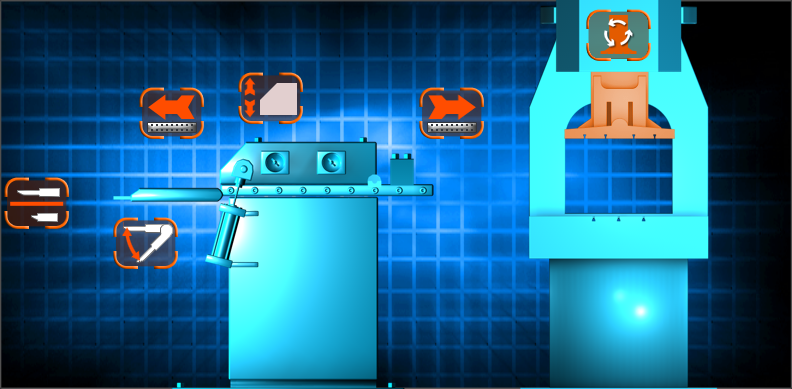
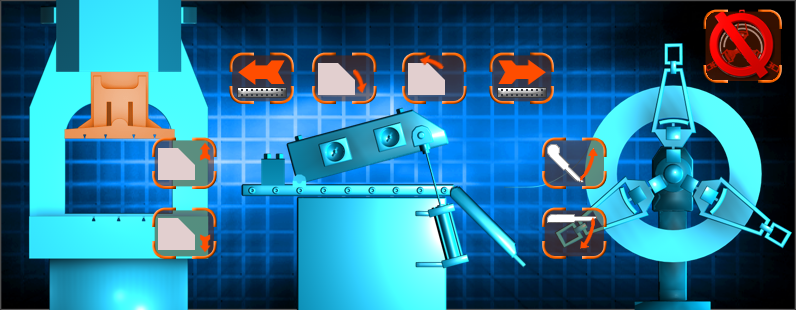
* Corrigidos comandos SQL que nao consideravam LINHA/MAQUINA ao consultar programas da prensa * Finalizada tela grafica com o desenho e comandos da maquina * Corrigido erro ao carregar / salvar avanco na tela de parametros do programa da prensa

diff --git a/AplanDesbobMezanino.c b/AplanDesbobMezanino.c
@@ -184,10 +184,14 @@ void ProgPrensa_Enviar(tProgData ProgData)
 
 void CarregaComboProgramas(void)
 {
+  char sql[300];
   GtkWidget *obj = GTK_WIDGET(gtk_builder_get_object(builder, "cmbPrensaProg"));
 
 // Carregamento dos programas cadastrados no MySQL no ComboBox.
-  DB_Execute(&mainDB, 0, "select Nome from ProgPrensa order by ID");
+  sprintf(sql, "select Nome from ProgPrensa where LINHA='%s' and MAQUINA='%s' order by ID",
+      MAQ_LINHA, MAQ_MAQUINA);
+
+  DB_Execute(&mainDB, 0, sql);
   CarregaCombo(&mainDB, GTK_COMBO_BOX(obj),0, NULL);
 }
 
@@ -199,45 +203,6 @@ int ProgPrensa_Init(void)
 }
 
 // Logica da tela principal: Callback de botoes e demais funcoes
-
-void cbProgPrensa_MesaSubir(GtkButton *button, gpointer user_data)
-{
-  atividade++;
-  SetMaqStatus(MAQ_STATUS_MANUAL);
-  MaqConfigFlags(MaqLerFlags() | FLAG_CMD_MESA_SUBIR);
-}
-
-void cbProgPrensa_MesaDescer(GtkButton *button, gpointer user_data)
-{
-  atividade++;
-  SetMaqStatus(MAQ_STATUS_MANUAL);
-  MaqConfigFlags(MaqLerFlags() | FLAG_CMD_MESA_DESCER);
-}
-
-void cbProgPrensa_MesaParar(GtkButton *button, gpointer user_data)
-{
-  MaqConfigFlags(MaqLerFlags() & (~(FLAG_CMD_MESA_DESCER | FLAG_CMD_MESA_SUBIR)));
-}
-
-void cbProgPrensa_AplanSubir(GtkButton *button, gpointer user_data)
-{
-  atividade++;
-  SetMaqStatus(MAQ_STATUS_MANUAL);
-  MaqConfigFlags(MaqLerFlags() | FLAG_CMD_APLAN_SUBIR);
-}
-
-void cbProgPrensa_AplanDescer(GtkButton *button, gpointer user_data)
-{
-  atividade++;
-  SetMaqStatus(MAQ_STATUS_MANUAL);
-  MaqConfigFlags(MaqLerFlags() | FLAG_CMD_APLAN_DESCER);
-}
-
-void cbProgPrensa_AplanParar(GtkButton *button, gpointer user_data)
-{
-  MaqConfigFlags(MaqLerFlags() & (~(FLAG_CMD_APLAN_DESCER | FLAG_CMD_APLAN_SUBIR)));
-}
-
 void cbProgPrensa_Parar(GtkButton *button, gpointer user_data)
 {
   atividade++;
@@ -463,7 +428,7 @@ void cbProgParamProduzir(GtkButton *button, gpointer user_data)
     tObjList   *item      = ProgParam->lista_avanco;
 
     while(item != NULL) {
-      val = atoi(gtk_entry_get_text(GTK_ENTRY(item->obj))) * 100;
+      val = atoi(gtk_entry_get_text(GTK_ENTRY(item->obj))) * 10;
       if(val > 0) {
         sprintf(sql,"update ProgPrensaPassos set ProgPrensaAvanco=%d where ID=%d", val, item->id);
         DB_Execute(&mainDB, 0, sql);
@@ -672,8 +637,7 @@ void AbrirProgParam(void)
     return; // Sem item ativo.
   }
 
-  sprintf(sql, "select ID, NumCiclos, PedirNumCiclos from ProgPrensa where LINHA='%s' and MAQUINA='%s' and nome='%s'",
-      MAQ_LINHA, MAQ_MAQUINA, LerComboAtivo(combo));
+  sprintf(sql, "select ID, NumCiclos, PedirNumCiclos from ProgPrensa where nome='%s'", LerComboAtivo(combo));
   DB_Execute(&mainDB, 0, sql);
   DB_GetNextRow(&mainDB, 0);
 
@@ -763,7 +727,7 @@ void AbrirProgParam(void)
 
         gtk_table_attach_defaults(GTK_TABLE(tbl), obj, 0, 1, i, i+1);
 
-        sprintf(tmp, "%d", atoi(DB_GetData(&mainDB, idx, 2)) / (idx == 0 ? 100 : 1));
+        sprintf(tmp, "%d", atoi(DB_GetData(&mainDB, idx, 2)) / (idx == 0 ? 10 : 1));
 
         obj = gtk_entry_new_with_max_length(10); // Tamanho de um int
         gtk_entry_set_text(GTK_ENTRY(obj), tmp);
@@ -903,8 +867,8 @@ struct strCoordIHM {
         { 422,  70,  70,  55, cbManAplanRecuar  , "images/cmd-aplan-perfil-avanca.png"},
         { 252,  70,  70,  55, cbManAplanAvancar , "images/cmd-aplan-perfil-recua.png" },
         { 337,  70,  70,  55, cbManAplanAbrir   , "images/cmd-aplan-tampa-abrir.png"  },
-        { 150, 135,  70,  55, cbManAplanSubir   , "images/cmd-aplan-tampa-abrir.png"  },
-        { 150, 205,  70,  55, cbManAplanDescer  , "images/cmd-aplan-tampa-fechar.png" },
+        { 150, 135,  70,  55, cbManAplanSubir   , "images/cmd-aplan-subir.png"        },
+        { 150, 205,  70,  55, cbManAplanDescer  , "images/cmd-aplan-descer.png"       },
         { 540, 135,  70,  55, cbManMesaSubir    , "images/cmd-aplan-ext-subir.png"    },
         { 540, 205,  70,  55, cbManMesaDescer   , "images/cmd-aplan-ext-descer.png"   },
         { 702,   7,  70,  55, cbManDesbob       , "images/ihm-ent-desbob-off.png"     },
@@ -916,8 +880,8 @@ struct strCoordIHM {
         { 422,  70,  70,  55, cbManAplanRecuar  , "images/cmd-aplan-perfil-avanca.png"},
         { 252,  70,  70,  55, cbManAplanAvancar , "images/cmd-aplan-perfil-recua.png" },
         { 337,  70,  70,  55, cbManAplanAbrir   , "images/cmd-aplan-tampa-abrir.png"  },
-        { 150, 135,  70,  55, cbManAplanSubir   , "images/cmd-aplan-tampa-abrir.png"  },
-        { 150, 205,  70,  55, cbManAplanDescer  , "images/cmd-aplan-tampa-fechar.png" },
+        { 150, 135,  70,  55, cbManAplanSubir   , "images/cmd-aplan-subir.png"        },
+        { 150, 205,  70,  55, cbManAplanDescer  , "images/cmd-aplan-descer.png"       },
         { 540, 135,  70,  55, cbManMesaSubir    , "images/cmd-aplan-ext-subir.png"    },
         { 540, 205,  70,  55, cbManMesaDescer   , "images/cmd-aplan-ext-descer.png"   },
         { 702,   7,  70,  55, cbManDesbob       , "images/ihm-ent-desbob-on.png"      },
@@ -930,8 +894,8 @@ struct strCoordIHM {
         { 225,  50,  70,  55, cbManAplanAvancar , "images/cmd-aplan-perfil-recua.png" },
         { 400,  50,  70,  55, cbManAplanAbrir   , "images/cmd-aplan-tampa-abrir.png"  },
         { 310,  50,  70,  55, cbManAplanFechar  , "images/cmd-aplan-tampa-fechar.png" },
-        { 150, 135,  70,  55, cbManAplanSubir   , "images/cmd-aplan-tampa-abrir.png"  },
-        { 150, 205,  70,  55, cbManAplanDescer  , "images/cmd-aplan-tampa-fechar.png" },
+        { 150, 135,  70,  55, cbManAplanSubir   , "images/cmd-aplan-subir.png"        },
+        { 150, 205,  70,  55, cbManAplanDescer  , "images/cmd-aplan-descer.png"       },
         { 540, 135,  70,  55, cbManMesaSubir    , "images/cmd-aplan-ext-subir.png"    },
         { 540, 205,  70,  55, cbManMesaDescer   , "images/cmd-aplan-ext-descer.png"   },
         { 702,   7,  70,  55, cbManDesbob       , "images/ihm-ent-desbob-off.png"     },
@@ -944,8 +908,8 @@ struct strCoordIHM {
         { 225,  50,  70,  55, cbManAplanAvancar , "images/cmd-aplan-perfil-recua.png" },
         { 400,  50,  70,  55, cbManAplanAbrir   , "images/cmd-aplan-tampa-abrir.png"  },
         { 310,  50,  70,  55, cbManAplanFechar  , "images/cmd-aplan-tampa-fechar.png" },
-        { 150, 135,  70,  55, cbManAplanSubir   , "images/cmd-aplan-tampa-abrir.png"  },
-        { 150, 205,  70,  55, cbManAplanDescer  , "images/cmd-aplan-tampa-fechar.png" },
+        { 150, 135,  70,  55, cbManAplanSubir   , "images/cmd-aplan-subir.png"        },
+        { 150, 205,  70,  55, cbManAplanDescer  , "images/cmd-aplan-descer.png"       },
         { 540, 135,  70,  55, cbManMesaSubir    , "images/cmd-aplan-ext-subir.png"    },
         { 540, 205,  70,  55, cbManMesaDescer   , "images/cmd-aplan-ext-descer.png"   },
         { 702,   7,  70,  55, cbManDesbob       , "images/ihm-ent-desbob-on.png"      },
@@ -953,16 +917,18 @@ struct strCoordIHM {
         { 0, 0, 0, 0, NULL, NULL } },
 };
 
+#define DEBUG_CARREGAR_TELA
+
 void CriarTelaIHM(struct strTelaIHM *tela, unsigned int offset, struct strImgIHM *lst_img, struct strCoordIHM *lst_coord)
 {
-//  char arq[50];
-//  static unsigned int n = 0;
+  char arq[50];
+  static unsigned int n = 0;
 
 #ifdef DEBUG_CARREGAR_TELA
   tela->offset = 0;
   tela->coord  = lst_coord;
 
-  sprintf(arq, "images/maq.%d.png", n++);
+  sprintf(arq, "maq.%d.png", n++);
   tela->pb = gdk_pixbuf_new_from_file(arq, NULL);
 #else
   GdkPixbuf *pb;
@@ -997,7 +963,7 @@ void CriarTelaIHM(struct strTelaIHM *tela, unsigned int offset, struct strImgIHM
   }
 
   // Recorta pixbuf para o tamanho da tela e copia para um novo
-//  pb = gdk_pixbuf_new_subpixbuf(tela->pb, tela->offset, tela->offset, lst_img[0].posx, lst_img[0].posy);
+  pb = gdk_pixbuf_new_subpixbuf(tela->pb, tela->offset, tela->offset, lst_img[0].posx, lst_img[0].posy);
 //  copy_pb = gdk_pixbuf_copy(pb);
 
   // Remove referências dos pixbufs antigos e aponta a tela para o novo
@@ -1005,8 +971,8 @@ void CriarTelaIHM(struct strTelaIHM *tela, unsigned int offset, struct strImgIHM
 //  g_object_unref(tela->pb);
 //  tela->pb = copy_pb;
 
-//  sprintf(arq, "maq.%d.png", n++);
-//  gdk_pixbuf_save(pb, arq, "png", NULL, NULL);
+  sprintf(arq, "maq.%d.png", n++);
+  gdk_pixbuf_save(pb, arq, "png", NULL, NULL);
 //  tela->pb = pb;
 #endif
 }
@@ -1049,7 +1015,7 @@ gboolean cbPrensaButtonPress(GtkWidget *widget, GdkEventButton *event, gpointer 
 
     MaqGravarRegistrador(REG_PROG_FLAGS, MaqLerRegistrador(REG_PROG_FLAGS, 0) &
         (~(FLAG_CMD_APLAN_ABRIR  | FLAG_CMD_APLAN_FECHAR)));
-}
+  }
 
   return TRUE;
 }
@@ -1155,8 +1121,10 @@ void PrensaMezanino_Update(void)
   current_flags = (MaqLerEstado() >> 13) & 0x3;
   if(last_flags != current_flags) {
     last_flags = current_flags;
-    printf("current_flags = %d\n", current_flags);
     cbDesenharPrensa(NULL, NULL, (gpointer)(&current_flags));
+
+    gtk_toggle_button_set_active(GTK_TOGGLE_BUTTON(gtk_builder_get_object(builder, "btnExecDesbob")),
+        (current_flags & FLAG_CMD_DESBOB_LIGAR) ? TRUE : FALSE);
   }
 }
 
@@ -1353,7 +1321,7 @@ void CarregaListaProgramas(GtkWidget *tvw)
 {
   int i;
   const int tam = 4;
-  char *valores[tam+1];
+  char *valores[tam+1], sql[500];
 
   valores[tam] = NULL;
 
@@ -1361,8 +1329,9 @@ void CarregaListaProgramas(GtkWidget *tvw)
   TV_Limpar(tvw);
 
   // Carrega os Programas
-  DB_Execute(&mainDB, 0,
-      "select ID, Nome, case ModoSingelo when 0 then 'Nao' else 'Sim' end as Singelo, NumCiclos from ProgPrensa where ID!=1 order by Nome");
+  sprintf(sql, "select ID, Nome, case ModoSingelo when 0 then 'Nao' else 'Sim' end as Singelo, NumCiclos from ProgPrensa "
+      "where ID!=1 and LINHA='%s' and MAQUINA='%s' order by Nome", MAQ_LINHA, MAQ_MAQUINA);
+  DB_Execute(&mainDB, 0, sql);
 
   while(DB_GetNextRow(&mainDB, 0)>0) {
     valores[0] = DB_GetData(&mainDB, 0, 0);

diff --git a/maq.c b/maq.c
@@ -635,8 +635,8 @@ MaqConfig MaqConfigList[] = {
     { // Aplanadora da Prensa de Mezanino
         .ID               = "IhmAplanMez",
         .Name             = "Aplanadora da Prensa de Mezanino",
-        .Line             = "MZAPLAN",
-        .Machine          = "MZAPLAN",
+        .Line             = "MZAPL",
+        .Machine          = "MZAPL",
         .ClpAddr          = "192.168.2.243",
         .AbaHome          = NTB_ABA_HOME_PRENSA,
         .AbaManut         = NTB_ABA_MANUT,
@@ -665,7 +665,7 @@ MaqConfig MaqConfigDefault = {
     .Name             = "Maquina de Teste",
     .Line             = "TESTE",
     .Machine          = "TESTE",
-    .ClpAddr          = "192.168.0.102",
+    .ClpAddr          = "192.168.0.99",
 //    .ClpAddr          = "192.168.2.243",
     .AbaHome          = NTB_ABA_HOME_PRENSA,
     .AbaManut         = NTB_ABA_MANUT,

diff --git a/defines.h b/defines.h
@@ -38,7 +38,7 @@ typedef uint16_t u16;
 //#define DEBUG_PC_NOETH
 
 // Ativar a linha abaixo para rodar em modo de teste
-#define DEBUG_MODO_TESTE
+//#define DEBUG_MODO_TESTE
 
 // Ativar a linha abaixo para desativar a integracao das IHMs com o SQL Server
 #define DISABLE_SQL_SERVER

diff --git a/version.h b/version.h
@@ -1,2 +1,2 @@
-#define BUILD_NUMBER 378
-#define BUILD_DATE "Qua Abr 30 14:04:12 BRT 2014"
+#define BUILD_NUMBER 417
+#define BUILD_DATE "Tue May  6 08:34:25 BRT 2014"
